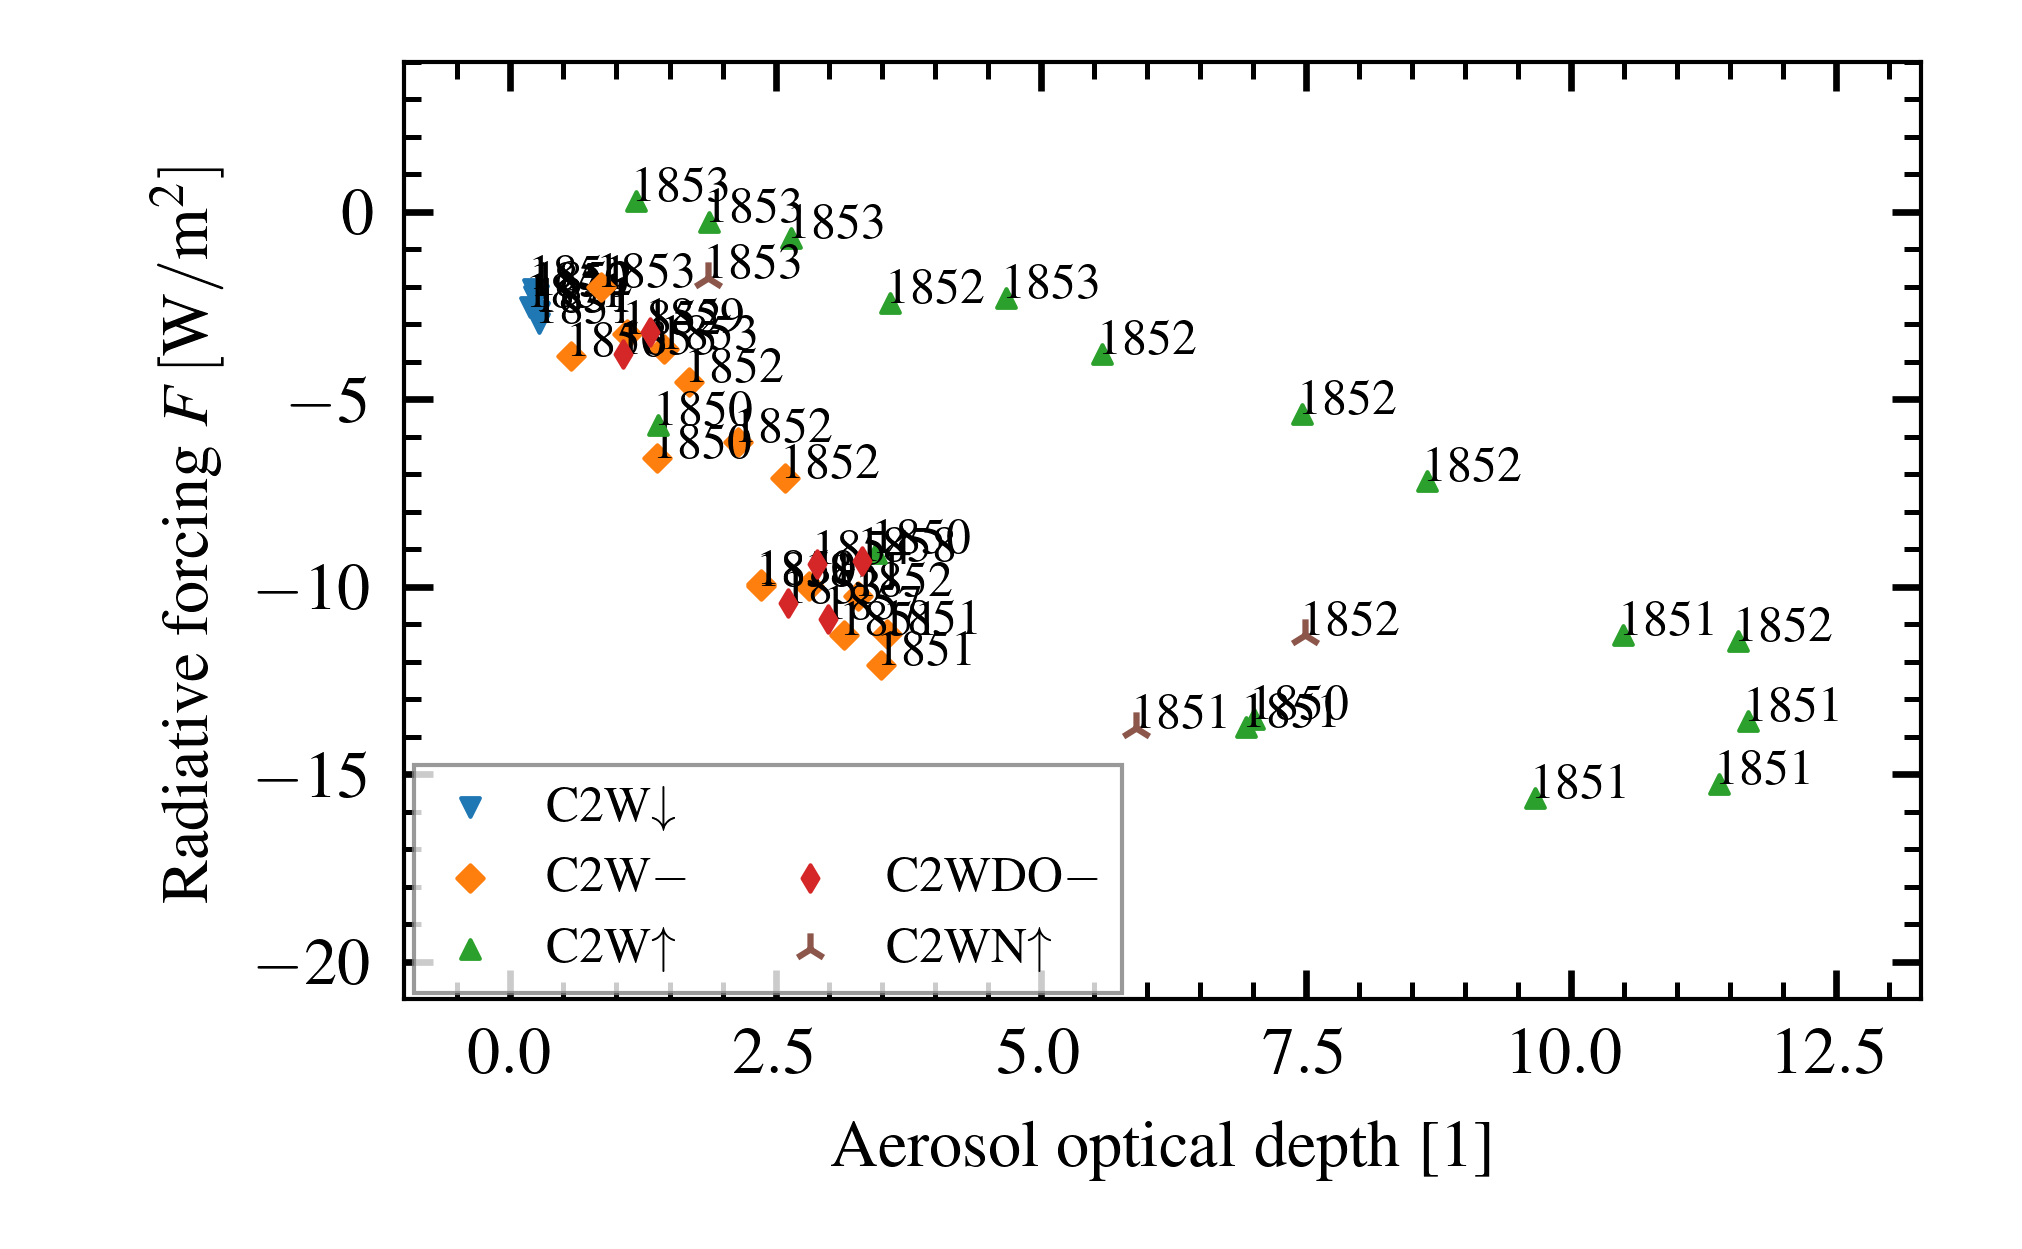
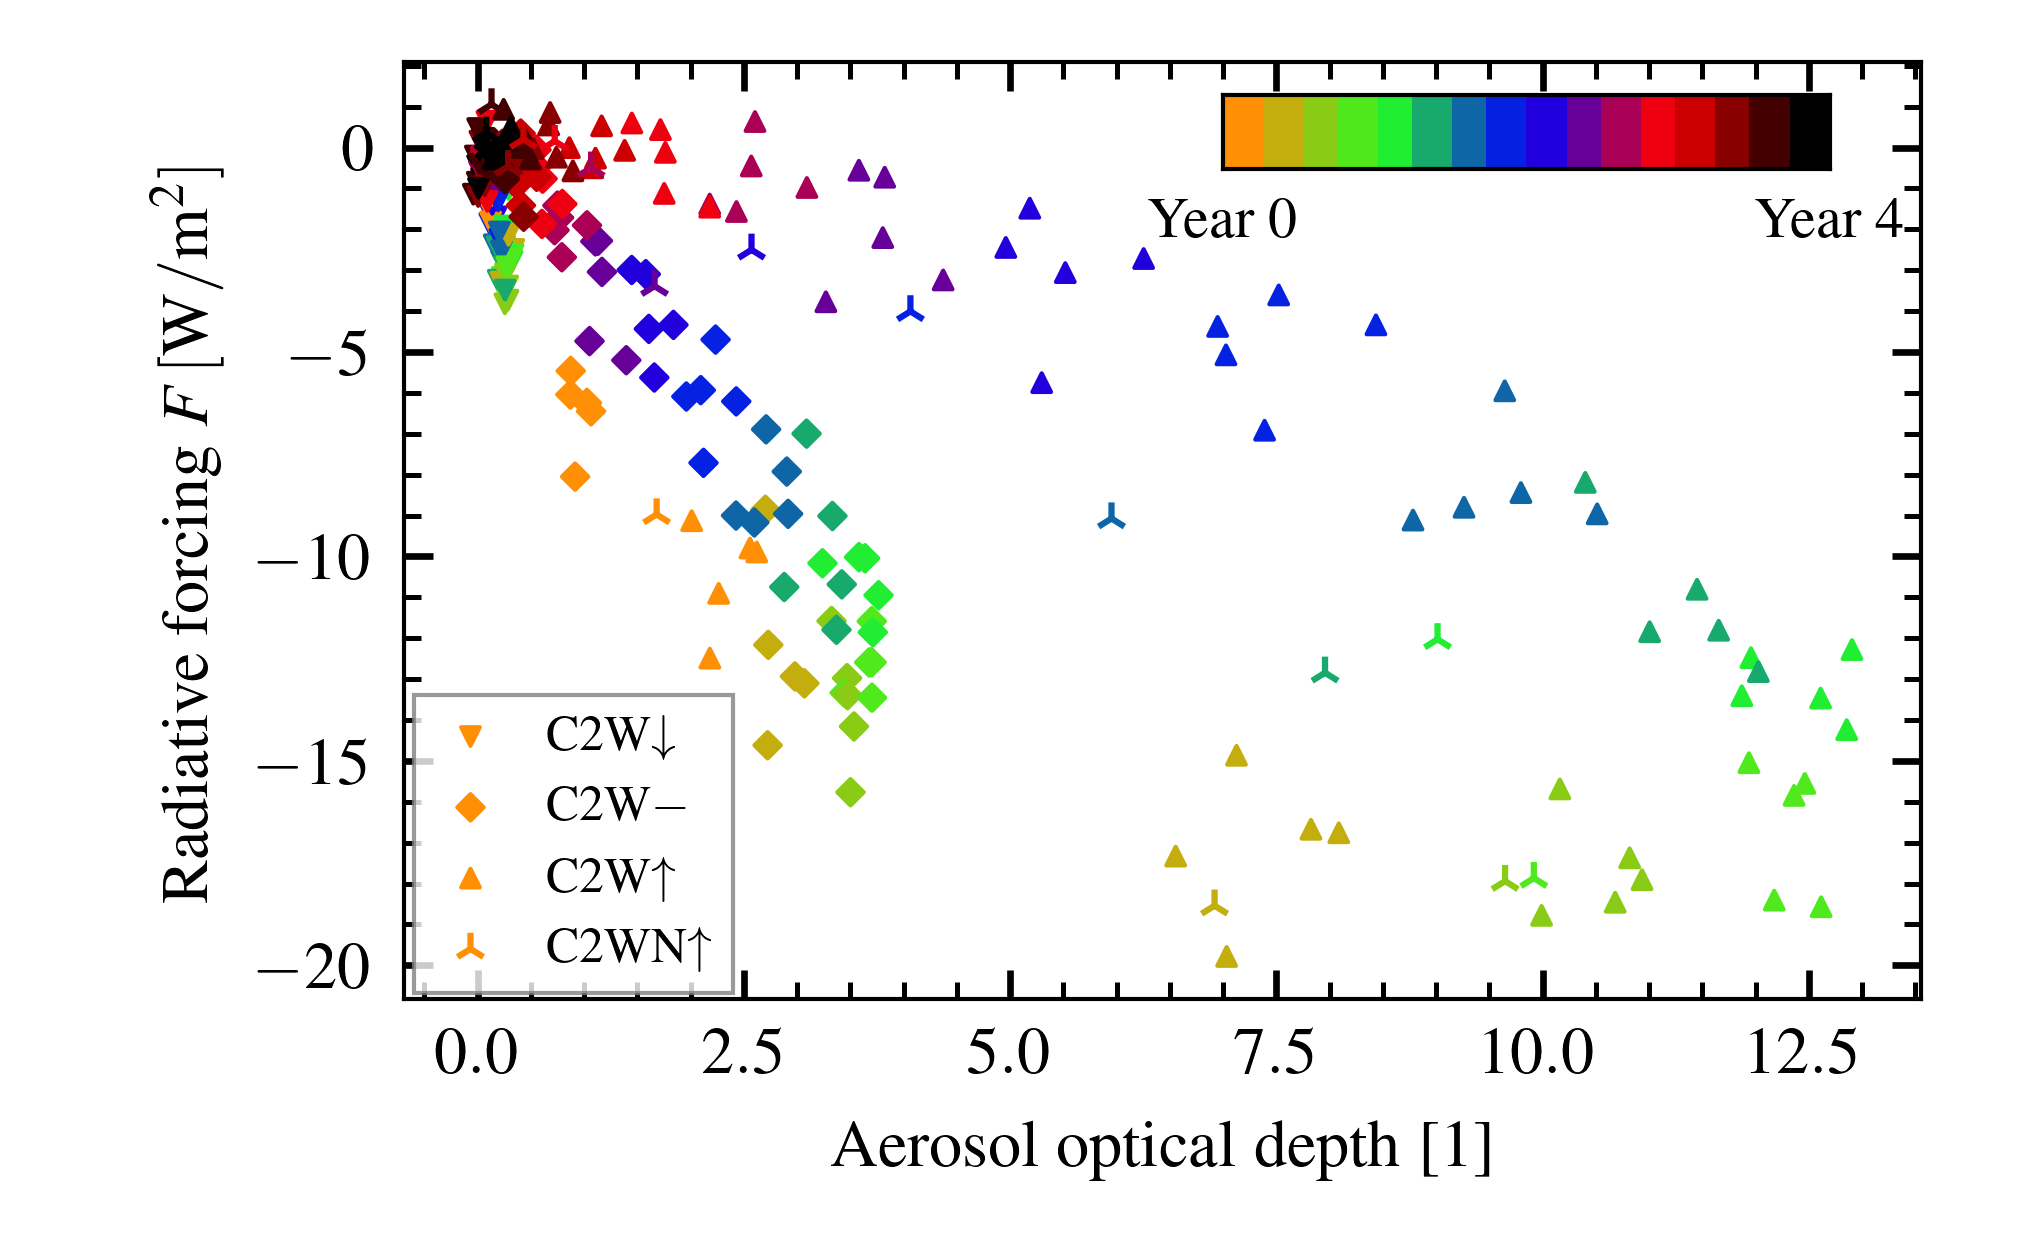
chore(loop-plots): upload improved coloring

diff --git a/templateV5.tex b/templateV5.tex
@@ -496,6 +496,18 @@ eruptions, causing a larger ratio between \acrshort{toa} and \acrshort{aod}.
   \label{fig:aod_vs_toa_avg_loop_ratio}
 \end{figure}
 
+\begin{figure}
+  \begin{center}
+    \includegraphics[width=0.95\linewidth]{figures/aod_vs_toa_avg_loop_ratio_scaled.png}
+  \end{center}
+  \caption{
+    A scaled version of \cref{fig:aod_vs_toa_avg_loop_ratio}, where the scaling is the
+    exact same as in \cref{fig:aod_vs_toa_avg_loop_scaled} compared to
+    \cref{fig:aod_vs_toa_avg_loop}
+  }%
+  \label{fig:aod_vs_toa_avg_loop_ratio_scaled}
+\end{figure}
+
 \paragraph{Comparing parameters}
 
 Let us now look more at different parameters that are relevant, not only \acrshort{aod}
